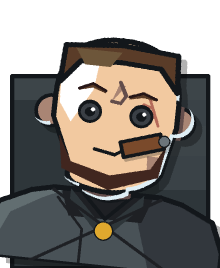
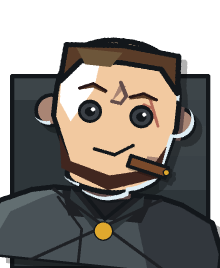
Take Orlov's cigar off the mouth line
It read as a moustache for four reviews: a dark bar laid across a lip is a
moustache, whatever it is drawn as. The stem now leaves the lip corner 4px
below the mouth line, falls away at 12 degrees, and is lit by a 2px ember in
the sheet's one gold. The mouth is the only thing on its own row again.

Changed region(s): [[0.5182, 0.4776, 0.7909, 0.6866]]

diff --git a/generators/portraits/portraitgen/props.py b/generators/portraits/portraitgen/props.py
@@ -73,6 +73,20 @@ PROP_CAST_TONE = (0, 0, 0, 64)
 RIGHT_BLEED = 4.0
 RIGHT_LIMIT = 220.0 - RIGHT_BLEED
 
+# The row a mouth is drawn on and the lip corner a smoked prop leaves from, in
+# portrait pixels: the reference mouth of `features.py` fitted to a skull lands
+# here, and a prop is drawn in raster space rather than in that skull's frame,
+# so the one row the two layers share is stated once.
+MOUTH_LINE = 170.0
+LIP_CORNER = (126.0, MOUTH_LINE)
+# How far under the corner the stem starts, how steeply it falls away from the
+# face, how long and how thick it runs, and the lit tip's radius.
+CIGAR_DROP = 4.0
+CIGAR_PITCH = 12.0
+CIGAR_LENGTH = 32.0
+CIGAR_GIRTH = 9.0
+CIGAR_EMBER = 2.0
+
 STEEL: RGB = (170, 179, 187)
 STEEL_LIT: RGB = (207, 214, 221)
 SLATE: RGB = (43, 47, 52)
@@ -300,12 +314,34 @@ def _pipe(canvas: Canvas, faction: Faction, ramp: Ramp) -> None:
 
 
 def _cigar(canvas: Canvas, faction: Faction, ramp: Ramp) -> None:
+    """Clenched in the lip corner, angled clear of the mouth, lit at the tip.
+
+    It sat across the mouth line for four reviews, where a dark bar over a lip
+    reads as a moustache and not as a cigar. It leaves from below the corner
+    instead, so the mouth stays the mouth and the stem is the only thing on
+    that row.
+    """
+    along = (math.cos(math.radians(CIGAR_PITCH)), math.sin(math.radians(CIGAR_PITCH)))
+    across = (-along[1], along[0])
+    x, y = LIP_CORNER[0], LIP_CORNER[1] + CIGAR_DROP
+
+    def at(run: float, side: float) -> Point:
+        return (
+            x + along[0] * run + across[0] * side,
+            y + along[1] * run + across[1] * side,
+        )
+
     _shape(
         canvas,
-        [(116.0, 164.0), (148.0, 154.0), (152.0, 166.0), (120.0, 176.0)],
+        [
+            at(0.0, 0.0),
+            at(CIGAR_LENGTH, 0.0),
+            at(CIGAR_LENGTH, CIGAR_GIRTH),
+            at(0.0, CIGAR_GIRTH),
+        ],
         TOBACCO,
     )
-    _disc(canvas, (152.0, 160.0), 4.0, faction.body_lt)
+    _disc(canvas, at(CIGAR_LENGTH, CIGAR_GIRTH / 2.0), CIGAR_EMBER, GOLD)
 
 
 def _medal(canvas: Canvas, faction: Faction, ramp: Ramp) -> None:

diff --git a/generators/portraits/tests/test_props.py b/generators/portraits/tests/test_props.py
@@ -153,6 +153,20 @@ class TheScalesHangPlumb(unittest.TestCase):
         self.assertLessEqual(abs(centre - midline), self.OFF_MIDLINE_PX)
 
 
+class TheCigarClearsTheMouth(unittest.TestCase):
+    """Cass Orlov's cigar crossed the mouth line, and a dark bar laid over a
+    lip is a moustache. Every row it paints has to sit under that line, and the
+    lit tip has to be the sheet's one gold."""
+
+    def test_the_stem_starts_below_the_mouth_line(self):
+        top = _prop("cigar").image.getbbox()[1] / Canvas().scale
+        self.assertGreater(top, props.MOUTH_LINE)
+
+    def test_the_tip_carries_an_ember(self):
+        colours = {colour for _, colour in _prop("cigar").image.getcolors(1 << 16)}
+        self.assertIn((*props.GOLD, 255), colours)
+
+
 class EveryPropCasts(unittest.TestCase):
     def test_the_shadow_lands_outside_the_prop(self):
         for key in sorted(props.PROPS):
